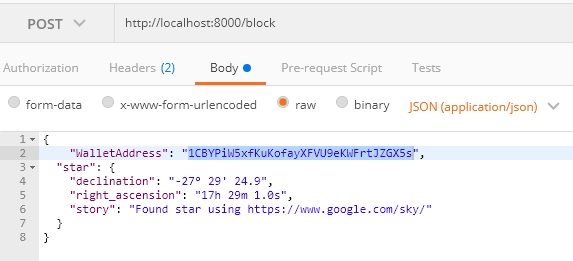
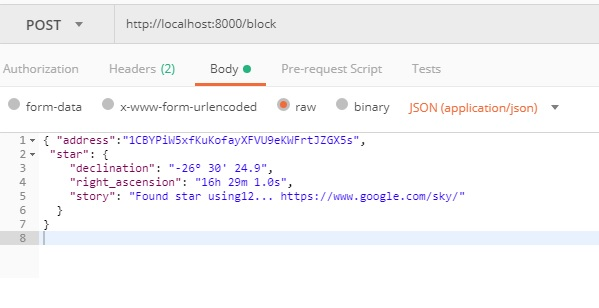
updated MessageSignatureController,SearchController,ValidateController,BlockController and Readme

diff --git a/WebServices/myRestApp/api/controllers/MessageSignatureController.js b/WebServices/myRestApp/api/controllers/MessageSignatureController.js
@@ -17,17 +17,18 @@ module.exports = {
      */
     validate: async function(req,res){
         try{
-             let walletAddress = req.param("WalletAddress");
-             let signature = req.param("MessageSignature");
+            let body = req.body;
+             let walletAddress = body.address;//req.param("WalletAddress");
+             let signature = body.signature;//req.param("MessageSignature");
              let time = new Date().getTime().toString().slice(0,-3);
              let respObj = {};
              let emptyFields = [];
              if (!walletAddress) 
-             emptyFields.push("WalletAddress");           
+             emptyFields.push("address");           
              
              
              if (!signature)
-             emptyFields.push("MessageSignature");
+             emptyFields.push("signature");
  
              
             

diff --git a/WebServices/myRestApp/api/controllers/ValidateController.js b/WebServices/myRestApp/api/controllers/ValidateController.js
@@ -14,7 +14,9 @@ module.exports = {
      */
     requestValidation: async function(req,res){
         try{
-             let blockchainId = req.param("BlockchainId");
+             let body = req.body;//req.param("BlockchainId");
+             let blockchainId = body.address;
+             console.log("chainid:" + blockchainId);
              let time = new Date().getTime().toString().slice(0,-3);
              //check if the request is already there or not
             
@@ -81,7 +83,7 @@ module.exports = {
              
             }
             else{
-                    return res.ok("{Error: No values supplied for BlockchainId}");
+                    return res.ok("{Error: No values supplied for address}");
                  }
             }
         catch(error)

diff --git a/WebServices/myRestApp/api/controllers/BlockController.js b/WebServices/myRestApp/api/controllers/BlockController.js
@@ -37,12 +37,15 @@ module.exports = {
   addBlock:async function(req,res){
       try{
 
-           let address = req.param("WalletAddress");
+        let body = req.body;
+
+           let address = body.address;//req.param("WalletAddress");
+           let star = body.star;
            if (!address)
             return res.ok("{Error:No values supplied for WalletAddress}");
            if (BlockchainData.validated.includes(address)){
                 //if (address in validateBlockContainer.validated){
-                let star = req.param("star");
+                //let star = req.param("star");
                 if (!star)
                 return res.ok("{Error:No values supplied for Star }");
                 //check for star properties

diff --git a/WebServices/myRestApp/api/controllers/SearchController.js b/WebServices/myRestApp/api/controllers/SearchController.js
@@ -9,6 +9,7 @@ const Blockchain = require('../models/simpleChain.js');
 
 module.exports = {
     searchAddress: async function(req,res){
+        //let body = req.body;
         let walletAddress = req.param("Address");
         console.log("address "+ walletAddress);
         try{  

diff --git a/WebServices/myRestApp/README.md b/WebServices/myRestApp/README.md
@@ -61,11 +61,20 @@ a) Configure Blockchain ID validation routine. This routine will     allow users
 
    http://localhost:8000/requestValidation
 
+   Request:
+
    ![requestValidation](https://github.com/sumchat/Blockchain/blob/WebServices/WebServices/myRestApp/img/requestValidation1.jpg)
+
+   Response:
+
+   ![requestValidation](https://github.com/sumchat/Blockchain/blob/WebServices/WebServices/myRestApp/img/requestValidation2.jpg)
+
 
     
 
 b) After receiving the response, users will prove their blockchain identity by signing a message with their wallet. Once they sign this message, the application will validate        their request and grant access to register a star.
+
+  Sign the Message:
 
   ![signature](https://github.com/sumchat/Blockchain/blob/WebServices/WebServices/myRestApp/img/signature.jpg)
 
@@ -80,7 +89,13 @@ b) After receiving the response, users will prove their blockchain identity by s
    Wallet address
    Message signature
 
+   Request:
+
    ![signatureValidation](https://github.com/sumchat/Blockchain/blob/WebServices/WebServices/myRestApp/img/signatureValidate.jpg)
+
+   Response:
+
+   ![signatureValidation](https://github.com/sumchat/Blockchain/blob/WebServices/WebServices/myRestApp/img/signatureValidateResponse.jpg)
 
 c) POST /block: http://localhost:8000/block
  
@@ -97,9 +112,13 @@ c) POST /block: http://localhost:8000/block
     constellation [optional]
     star_story [Hex encoded Ascii string limited to 250 words/500 bytes]
 
+    Request:
+
  ![post](https://github.com/sumchat/Blockchain/blob/WebServices/WebServices/myRestApp/img/block_post.jpg)
 
- ![header](https://github.com/sumchat/Blockchain/blob/WebServices/WebServices/myRestApp/img/block_post_header.jpg)
+   Response:
+
+ ![header](https://github.com/sumchat/Blockchain/blob/WebServices/WebServices/myRestApp/img/block_post_response.jpg)
   
  
 
